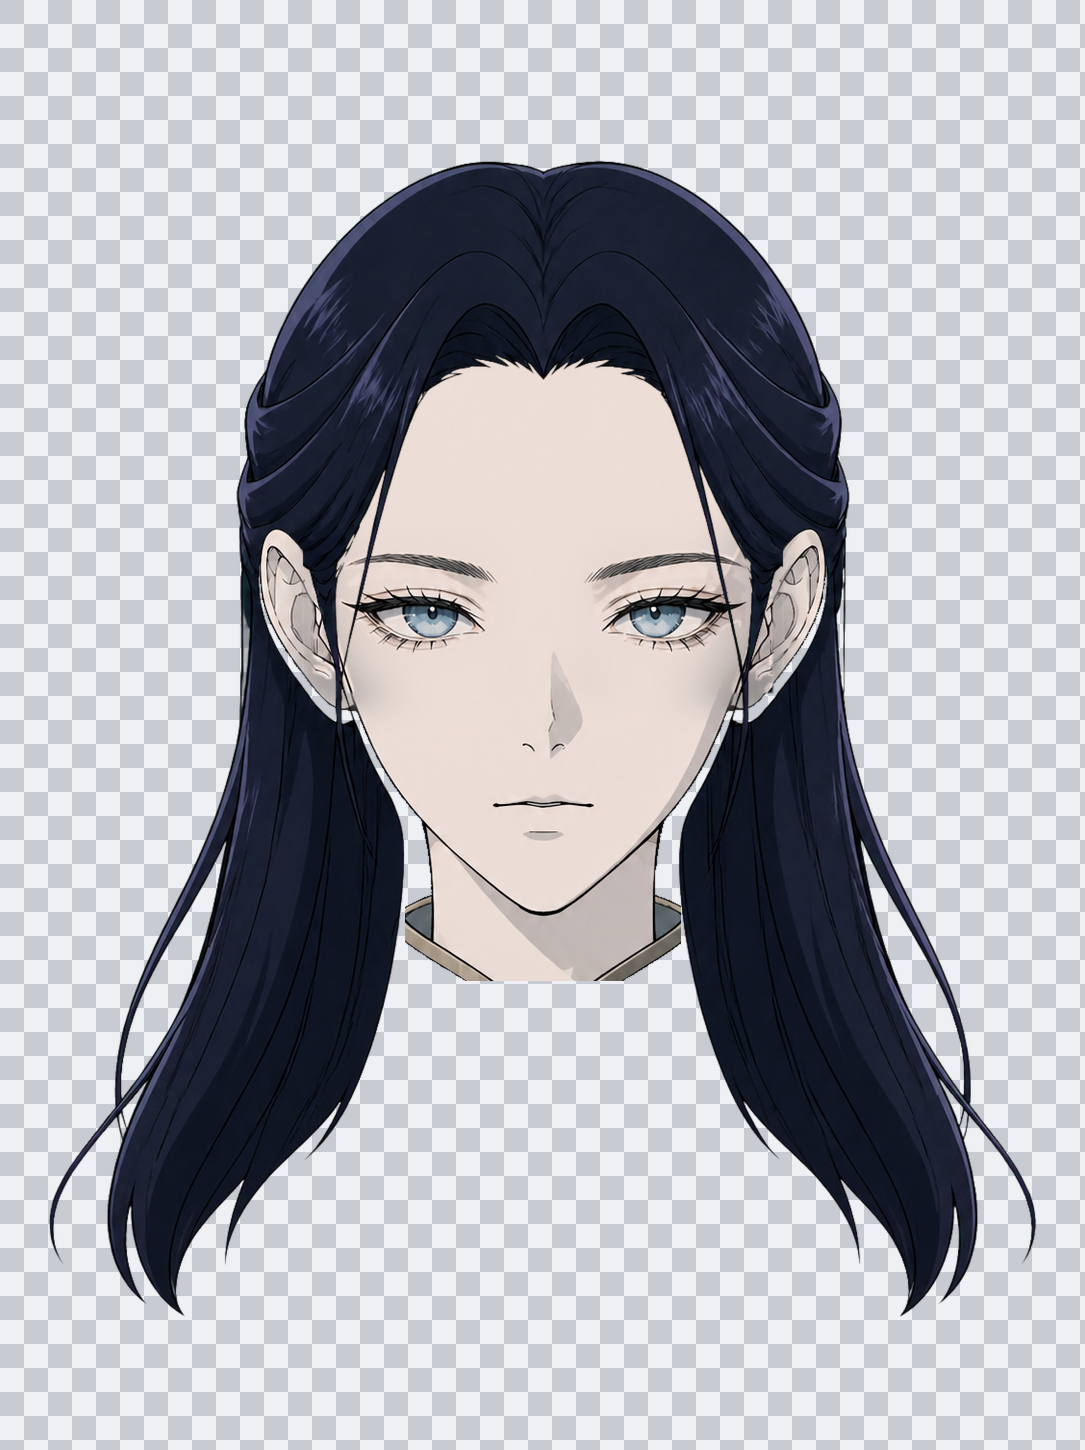
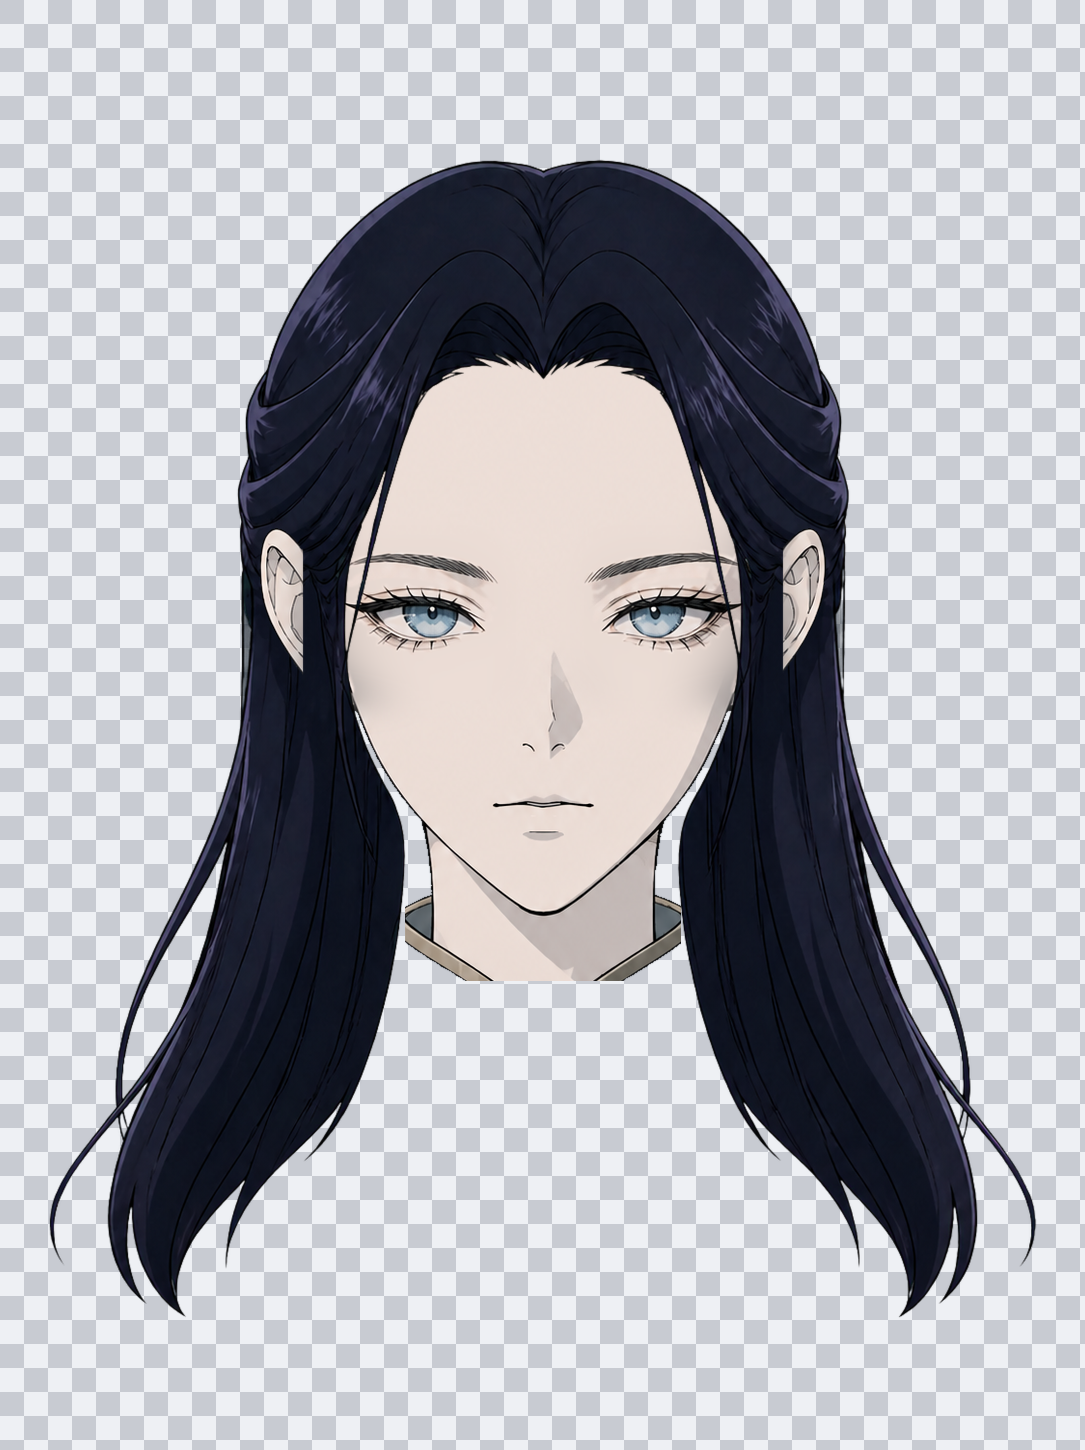
Fill portrait hair behind separate ears

diff --git a/docs/art/portrait-v2-master-review/pipeline-f-oval-almond-bob/README.md b/docs/art/portrait-v2-master-review/pipeline-f-oval-almond-bob/README.md
@@ -8,6 +8,7 @@ All masters use the registered `1085×1450` canvas. Runtime layers are determini
 
 - The face layer owns the skull, facial outline, nose, mouth and neck, but no ear pixels.
 - Ears are isolated in `ears/oval.png` and composited after hair.
+- `chroma/hair-bob-filled-v2.png` keeps the bob continuous behind both ears instead of cutting ear-shaped holes into the hairstyle.
 - The eye layer keeps lashes, iris texture and highlights without skin shadow.
 - The bob crown uses the same top clearance as the approved long hairstyle while retaining its jaw-length endpoint.
 - Only the exact approved combination may activate these raster layers.

diff --git a/docs/art/portrait-v2-master-review/pipeline-e-layers/README.md b/docs/art/portrait-v2-master-review/pipeline-e-layers/README.md
@@ -33,3 +33,4 @@ python scripts/build-portrait-v2-formal-layers.py
 - Ears are extracted from the approved face master into `ears/sharp.png`.
 - The face layer no longer owns ear pixels.
 - Runtime order is face, eyes, hair, then ears, so the helix remains readable when hair passes behind it.
+- `chroma/hair-long-filled-v2.png` is the production source: hair stays continuous behind both ears and contains no ear-shaped transparency holes.
